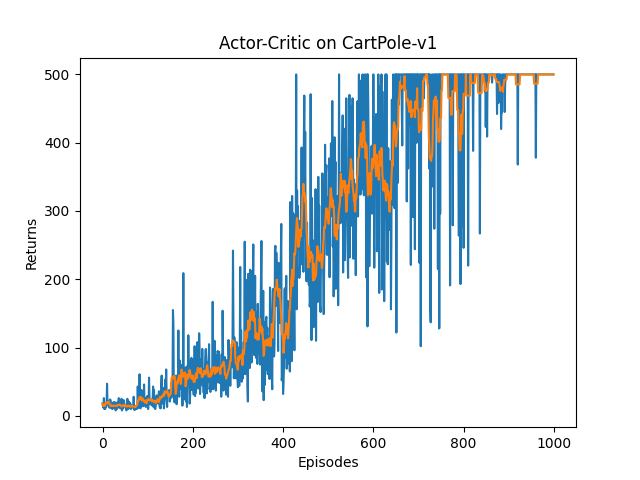
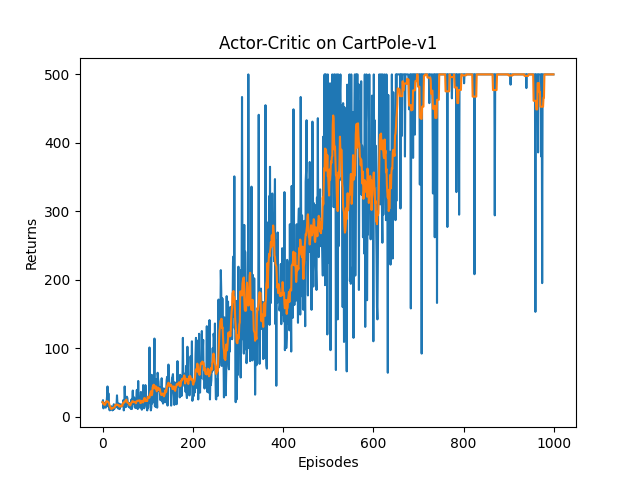
fix-device-using-bug

diff --git a/8-actor-critic/actor_critic.py b/8-actor-critic/actor_critic.py
@@ -28,9 +28,9 @@ class ValueNet(torch.nn.Module):
 class ActorCritic:
     def __init__(self, state_dim, hidden_dim, action_dim, actor_lr, critic_lr, gamma, device):
         # 策略网络
-        self.actor = PolicyNet(state_dim, hidden_dim, action_dim)
+        self.actor = PolicyNet(state_dim, hidden_dim, action_dim).to(device)
         # 价值网络
-        self.critic = ValueNet(state_dim, hidden_dim)
+        self.critic = ValueNet(state_dim, hidden_dim).to(device)
         # 策略网络优化器
         self.actor_optimizer = torch.optim.Adam(self.actor.parameters(), lr=actor_lr)
         # 价值网络优化器

diff --git a/8-actor-critic/README.md b/8-actor-critic/README.md
@@ -77,7 +77,7 @@ class ActorCritic:
 ![policy-gradient-moving-avg](../7-policy-gradient/reinforce-returns-moving-avg.png)
 * actor-critic
 ![actor-critic-moving-avg](actor-critic-returns-moving-avg.png)
-* 相比之下actor-critic训练过程中的returns会更加稳定, 抖动(方差)幅度明显改善, 说明方差减小有效
+* 相比之下actor-critic训练过程中的returns会更加稳定, 抖动(方差)幅度有所改善, 说明方差减小有效
 
 # A2C vs A3C
 - 提出A3C算法的paper [Asynchronous Methods for Deep Reinforcement Learning](https://arxiv.org/pdf/1602.01783) 2016
